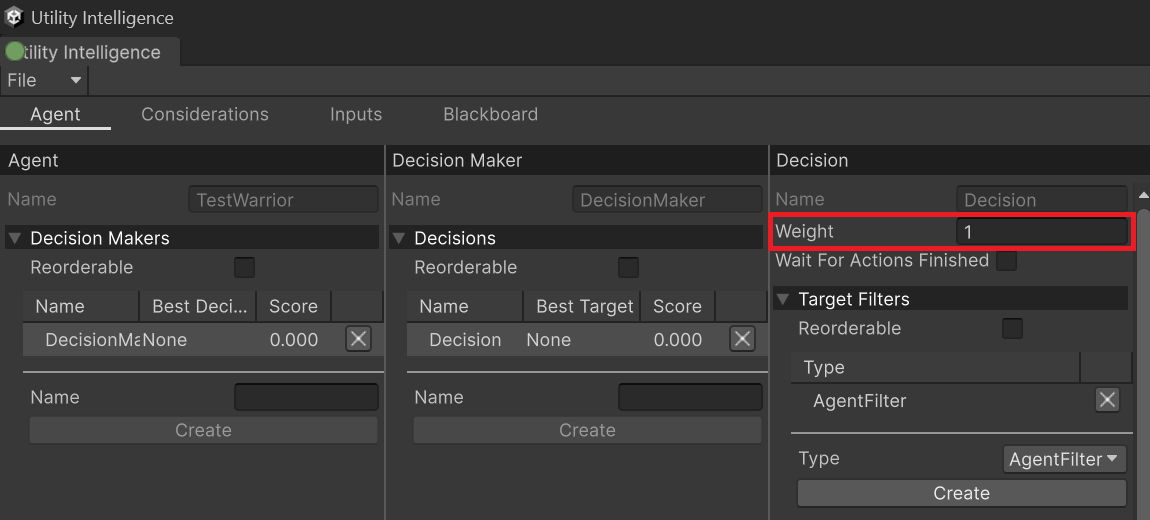
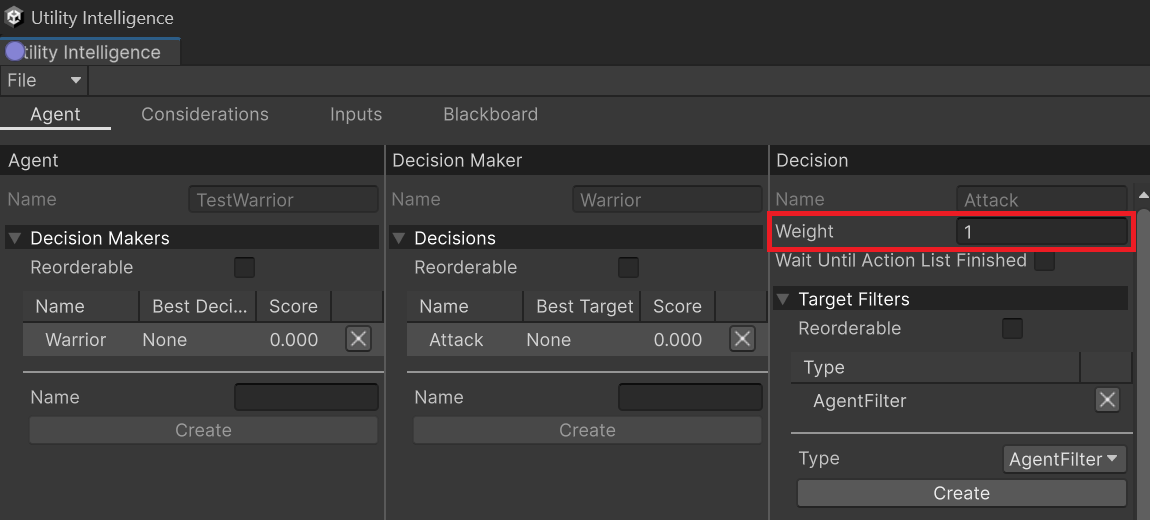
[PUBLISHER] Merge #245
* PUSH NOTE : decisions.md

* PUSH ATTACHMENT : adjust-decision-weight.png

* PUSH ATTACHMENT : wait-action-list-finished.png

* PUSH NOTE : considerations.md

* PUSH ATTACHMENT : ConsiderationEditor.gif

diff --git a/docs/UtilityIntelligence/UtilityAgent/decisions.md b/docs/UtilityIntelligence/UtilityAgent/decisions.md
@@ -16,13 +16,13 @@ To change the decision's weight, you need to use the Editor:
 
 ![[../../Attachments/UtilityIntelligence/Documenntation/Decisions/adjust-decision-weight.png|../../Attachments/UtilityIntelligence/Documenntation/Decisions/adjust-decision-weight.png]]
 
-### Decision score per target
+### Decision is scored per target
 
 Every decision has at least 1 target and they will be **scored per target**.  **Utility Intelligence** will compare all of the decision-target pairs with each other then choose the pair with the highest score.
 
 ![[../../Attachments/UtilityIntelligence/Documenntation/Decisions/decisions-per-target.png|../../Attachments/UtilityIntelligence/Documenntation/Decisions/decisions-per-target.png]]
 
-### Decision's structure
+### The structure of a decision
 
 In **Utility Intelligence**, each decision has:
 - A list of target filters
@@ -31,11 +31,11 @@ In **Utility Intelligence**, each decision has:
 
 Because decisions are scored based on their targets. And any entity in the **Utility World** (all GameObjects with `UtilityEntityOwner` or `UtilityAgentOwner` attached)  could be a target. Therefore, we need a way to filter targets, ensuring that the **Decision Score Evaluator** only evaluates appropriate targets. And that is the job of `TargetFilter`.
 
-After finding appropriate targets, all considerations of that decision will be evaluated for each target to calculate the final score of each decision-target pair. Subsequently, the best decision-target pair with the highest score will be chosen. 
+After finding appropriate targets, all considerations of that decision will be evaluated for each target to calculate the final score of each decision-target pair. 
 
-Finally, all actions attached to it will be executed either in **sequence** or in **parallel**.
+Finally, the best decision-target pair with the highest score will be chosen and the agent will execute all actions attached to the decision, either in **sequence** or in **parallel**.
 
-### Target Filters
+### Target filters
 
 #### How to create a new target filter
 
@@ -58,29 +58,147 @@ Note that you can add multiple target filters to a decision. To add target filte
 #### Built-in target filters
 
 Currently, **Utility Intelligence** provides some built-in target filters as follows:
-- SelfFilter: The filtered target is the current agent.
-- OtherFilter: The filtered targets are any entities in the utility world, except the current agent.
-- AgentFilter. The filtered targets are any agents in the utility world.
+- `SelfFilter`: The filtered target is the current agent.
+- `OtherFilter`: The filtered targets are any entities in the utility world, except the current agent.
+- `AgentFilter`: The filtered targets are any agents in the utility world.
 
-And more built-in target filters will be added soon based on user needs.
+And more built-in target filters will be added soon.
 
 ### Actions
 
-After the agent finds out the best decision, it will execute the attached actions either in sequence or in parallel depending on your choice. Currently, there are two execution modes for actions:
-- ActionsRunInSequence
+
+
+
+After the agent finds out the best decision, it will execute the action list either in **sequence** or in **parallel**, depending on your choice. Currently, there are two execution modes for the action list:
+- `ActionsRunInSequence`
 	- The actions will be run sequentially. 
-	- If an action returns success, then the agent will run the next action in order.
-	- If an action returns failure, then the actions will be restarted and the agent will run them from the beginning.
-- ActionsRunInParallel
+	- If an action returns success, the agent will run the next action, and the action list will finish in success when the last action returns success.
+	- If an action returns failure, the action list will finish in failure.
+- `ActionsRunInParallel`
 	- The actions will be run simultaneously. 
-	- If any action returns success or failure, then the actions will be restarted, and the agent will run them from the beginning.
+	- If any action returns success, the action list will finish in success.
+	- If any action returns failure, the action list will finish in failure.
+
+
+> [!NOTE] Note
+> The action list will be restarted from the beginning after it is finished.
+
+In case you want to wait until the action list of the current decision is finished before the agent makes a new decision, you can check the option: **Wait Until Action List Finished**. For example, it can be used with the attack action because the agent needs to finish the attack before starting the next action, such as run away from the enemy. 
+
+![[../../Attachments/UtilityIntelligence/Documenntation/Decisions/wait-action-list-finished.png|../../Attachments/UtilityIntelligence/Documenntation/Decisions/wait-action-list-finished.png]]
 
 You can choose the execution mode you prefer by selecting it from this drop down menu:
 ![[../../Attachments/UtilityIntelligence/Documenntation/Decisions/actions-sequence-parallel.png|../../Attachments/UtilityIntelligence/Documenntation/Decisions/actions-sequence-parallel.png]]
 
 #### How to create a new action
 
+To create a new action, you need to create a new class inherited from `ActionTask`:
+```cs
+public class Wait : ActionTask
+{
+    private float elapsedTime;
+    public VariableReference<float> WaitTime = 1.0f;
+
+    protected override void OnStart()
+    {
+        elapsedTime = 0;
+    }
+
+    protected override Status OnUpdate(float deltaTime)
+    {
+        elapsedTime += deltaTime;
+
+        if (elapsedTime > WaitTime) return Status.Success;
+        return Status.Running;
+    }
+}
+```
+
+
+#### Overridable functions
+Here is the list of functions you could override to make your actions works as you want:
+
+**Lifecycle Functions:**
+```cs
+void OnAwake();
+
+void OnStart();
+
+Status OnUpdate();
+
+void OnLateUpdate();
+
+void OnFixedUpdate();
+
+//OnAbort is called when the action's target changes or when the agent makes a new decision
+void OnAbort();
+
+//OnEnd is called after the action returns a success or failure
+void OnEnd();
+```
+
+**Collision/Trigger 3D:**
+```cs
+void OnCollisionEnter(Collision collision);
+
+void OnCollisionStay(Collision collision);
+
+void OnCollisionExit(Collision collision);
+
+void OnTriggerEnter(Collider other);
+
+void OnTriggerStay(Collider other);
+
+void OnTriggerExit(Collider other);
+
+void OnControllerColliderHit(ControllerColliderHit hit);
+```
+
+**Collision/Trigger 2D:**
+```cs
+void OnCollisionEnter2D(Collision2D collision);
+
+void OnCollisionStay2D(Collision2D collision);
+
+void OnCollisionExit2D(Collision2D collision);
+
+void OnTriggerEnter2D(Collider2D other);
+
+void OnTriggerStay2D(Collider2D other);
+
+void OnTriggerExit2D(Collider2D other);
+```
+
+**Animation:**
+```cs
+void OnAnimatorMove();
+
+void OnAnimatorIK(int layerIndex);
+```
+
+#### Coroutine functions
+
+We provides these functions to help you start/stop coroutines from your actions:
+
+```cs
+void StartCoroutine(string methodName);
+
+Coroutine StartCoroutine(IEnumerator routine);
+
+Coroutine StartCoroutine(string methodName, object value);
+
+void StopCoroutine(string methodName);
+
+void StopCoroutine(IEnumerator routine);
+
+void StopAllCoroutines();
+```
+
+
+
 #### Built-in actions
+
+Here is the list of built-in actions and there will be more soon:
 - Idle
 - Log
 - Wait
@@ -88,6 +206,8 @@ You can choose the execution mode you prefer by selecting it from this drop down
 - MoveTowards
 - NavmeshMoveTowards
 - DestroySelf
+
+
 ---
 <p align="center">
 If you find anything that seems incorrect, please let me know so that I can fix it! 😆

diff --git a/docs/UtilityIntelligence/UtilityAgent/considerations.md b/docs/UtilityIntelligence/UtilityAgent/considerations.md
@@ -10,7 +10,7 @@ For instance, suppose our agent has a decision called `AttackEnemy`, and this de
 In addition, you can add **as many axes as you want** to a decision. That's why *Dave Mark* called it the **Infinite Axis Utility System**. 
 
 
-### Consideration's structure
+### The structure of a consideration
 
 A consideration is made up of:
 - An input
@@ -62,16 +62,15 @@ There are two ways to create a new input:
 - Using `InputFromSource<Value>`, you can choose the source of the input: either **Self** or **Target**:
 ![[../../Attachments/UtilityIntelligence/Documenntation/Considerations/input-source.png|../../Attachments/UtilityIntelligence/Documenntation/Considerations/input-source.png]]
 
-
 To add inputs to the agent, you need to go to the **Input Tab**, give it a name, select the input type and then click to the **Create** button:
 ![[../../Attachments/UtilityIntelligence/Documenntation/Considerations/add-input.png|../../Attachments/UtilityIntelligence/Documenntation/Considerations/add-input.png]]
 
 #### Built-in inputs
 
 Currently, there is only one built-in input, and I will add more in the future based on user needs:
-- MyDistanceToTargetInput: It returns the distance from the current agent to the target.
+- `MyDistanceToTargetInput`: It returns the distance from the current agent to the target.
 
-### Input Normalizations
+### Input normalizations
 
 #### How to create a new input normalization
 
@@ -98,22 +97,18 @@ To select the input normalization for your consideration, you need to select the
 
 We provides a lot of built-in input normalizations to help you normalize your inputs **without having to write a single line of code**:
 - `Float`
-	- BasicNormalizationFloat: It clamps the input value to `[0, 1]`
-	- DivideByMaxValueFloat: It divides the input by `MaxValue`.
-	- GreaterThanOrEqualValueFloat. It returns `1` if the input value is greater than `Value`; otherwise, it returns `0`.
-	- LessThanOrEqualValueFloat: It returns `1` if the input value is less than the `Value`; otherwise, it returns `0`.
-	- InRangeFloat: It maps the input value from `[MinValue, MaxValue]` to `[0, 1]`.  Note that if the input value is above `MaxValue`, then the normalized value is `1`, and if the input value is below `MaxValue`, then the normalized value is `0`.
-	- IsInRangeFloat: It returns `1` if the input value is in the range `[MinValue, MaValue]`; otherwise, it returns `0`.
-- `Int` (These integer input normalizations function similarly to the floats)
-	- BasicNormalizationInt
-	- GreaterThanOrEqualValueInt
-	- LessThanOrEqualValueInt
-	- InRangeInt
-	- IsInRangeInt
+	- `BasicNormalizationFloat`: It clamps the input value to `[0, 1]`
+	- `DivideByMaxValueFloat`: It divides the input by `MaxValue`.
+	- `GreaterThanOrEqualValueFloat`: It returns `1` if the input value is greater than `Value`; otherwise, it returns `0`.
+	- `LessThanOrEqualValueFloat`: It returns `1` if the input value is less than the `Value`; otherwise, it returns `0`.
+	- `InRangeFloat`: It maps the input value from `[MinValue, MaxValue]` to `[0, 1]`.  Note that if the input value is above `MaxValue`, then the normalized value is `1`, and if the input value is below `MaxValue`, then the normalized value is `0`.
+	- `IsInRangeFloat`: It returns `1` if the input value is in the range `[MinValue, MaValue]`; otherwise, it returns `0`.
+- `Int` 
+	- The integer input normalizations are similarly to the floats
 - `Bool`
-	- BasicNormalizationBool: It returns `1` if the input value is `true`; otherwise, it returns `0`.
+	- `BasicNormalizationBool`: It returns `1` if the input value is `true`; otherwise, it returns `0`.
 
-### Response Curves
+### Response curves
 
 In **Utility Intelligence**, response curves are used to remap the normalized input to the consideration score. And it has 5 parameters:
 - Curve Type
